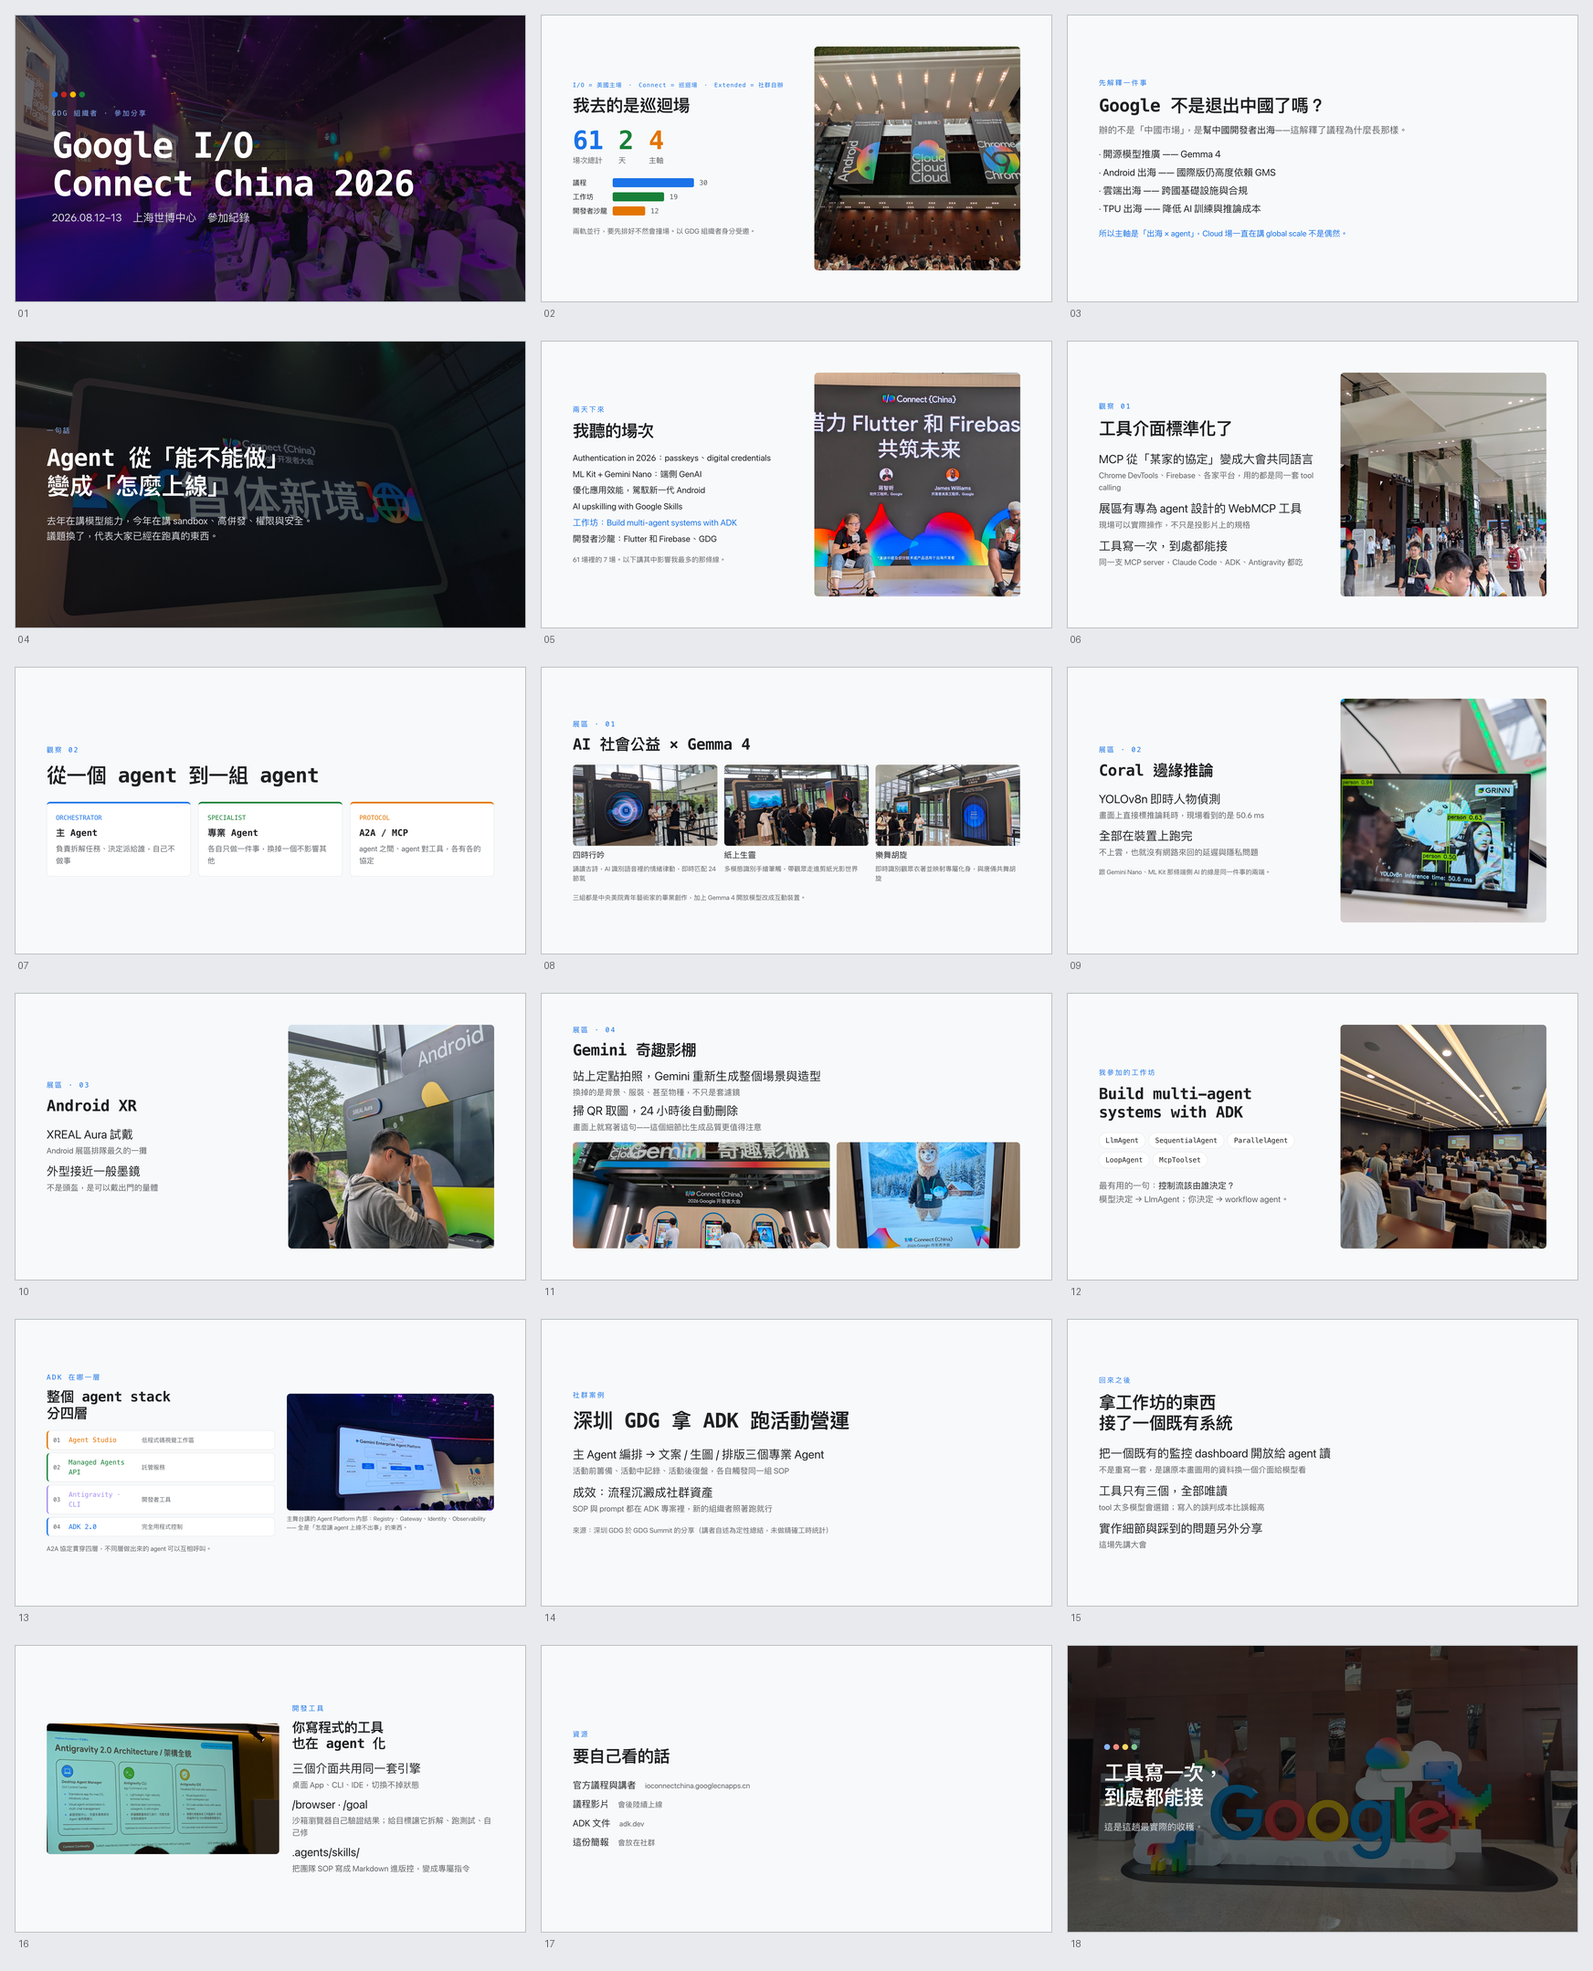
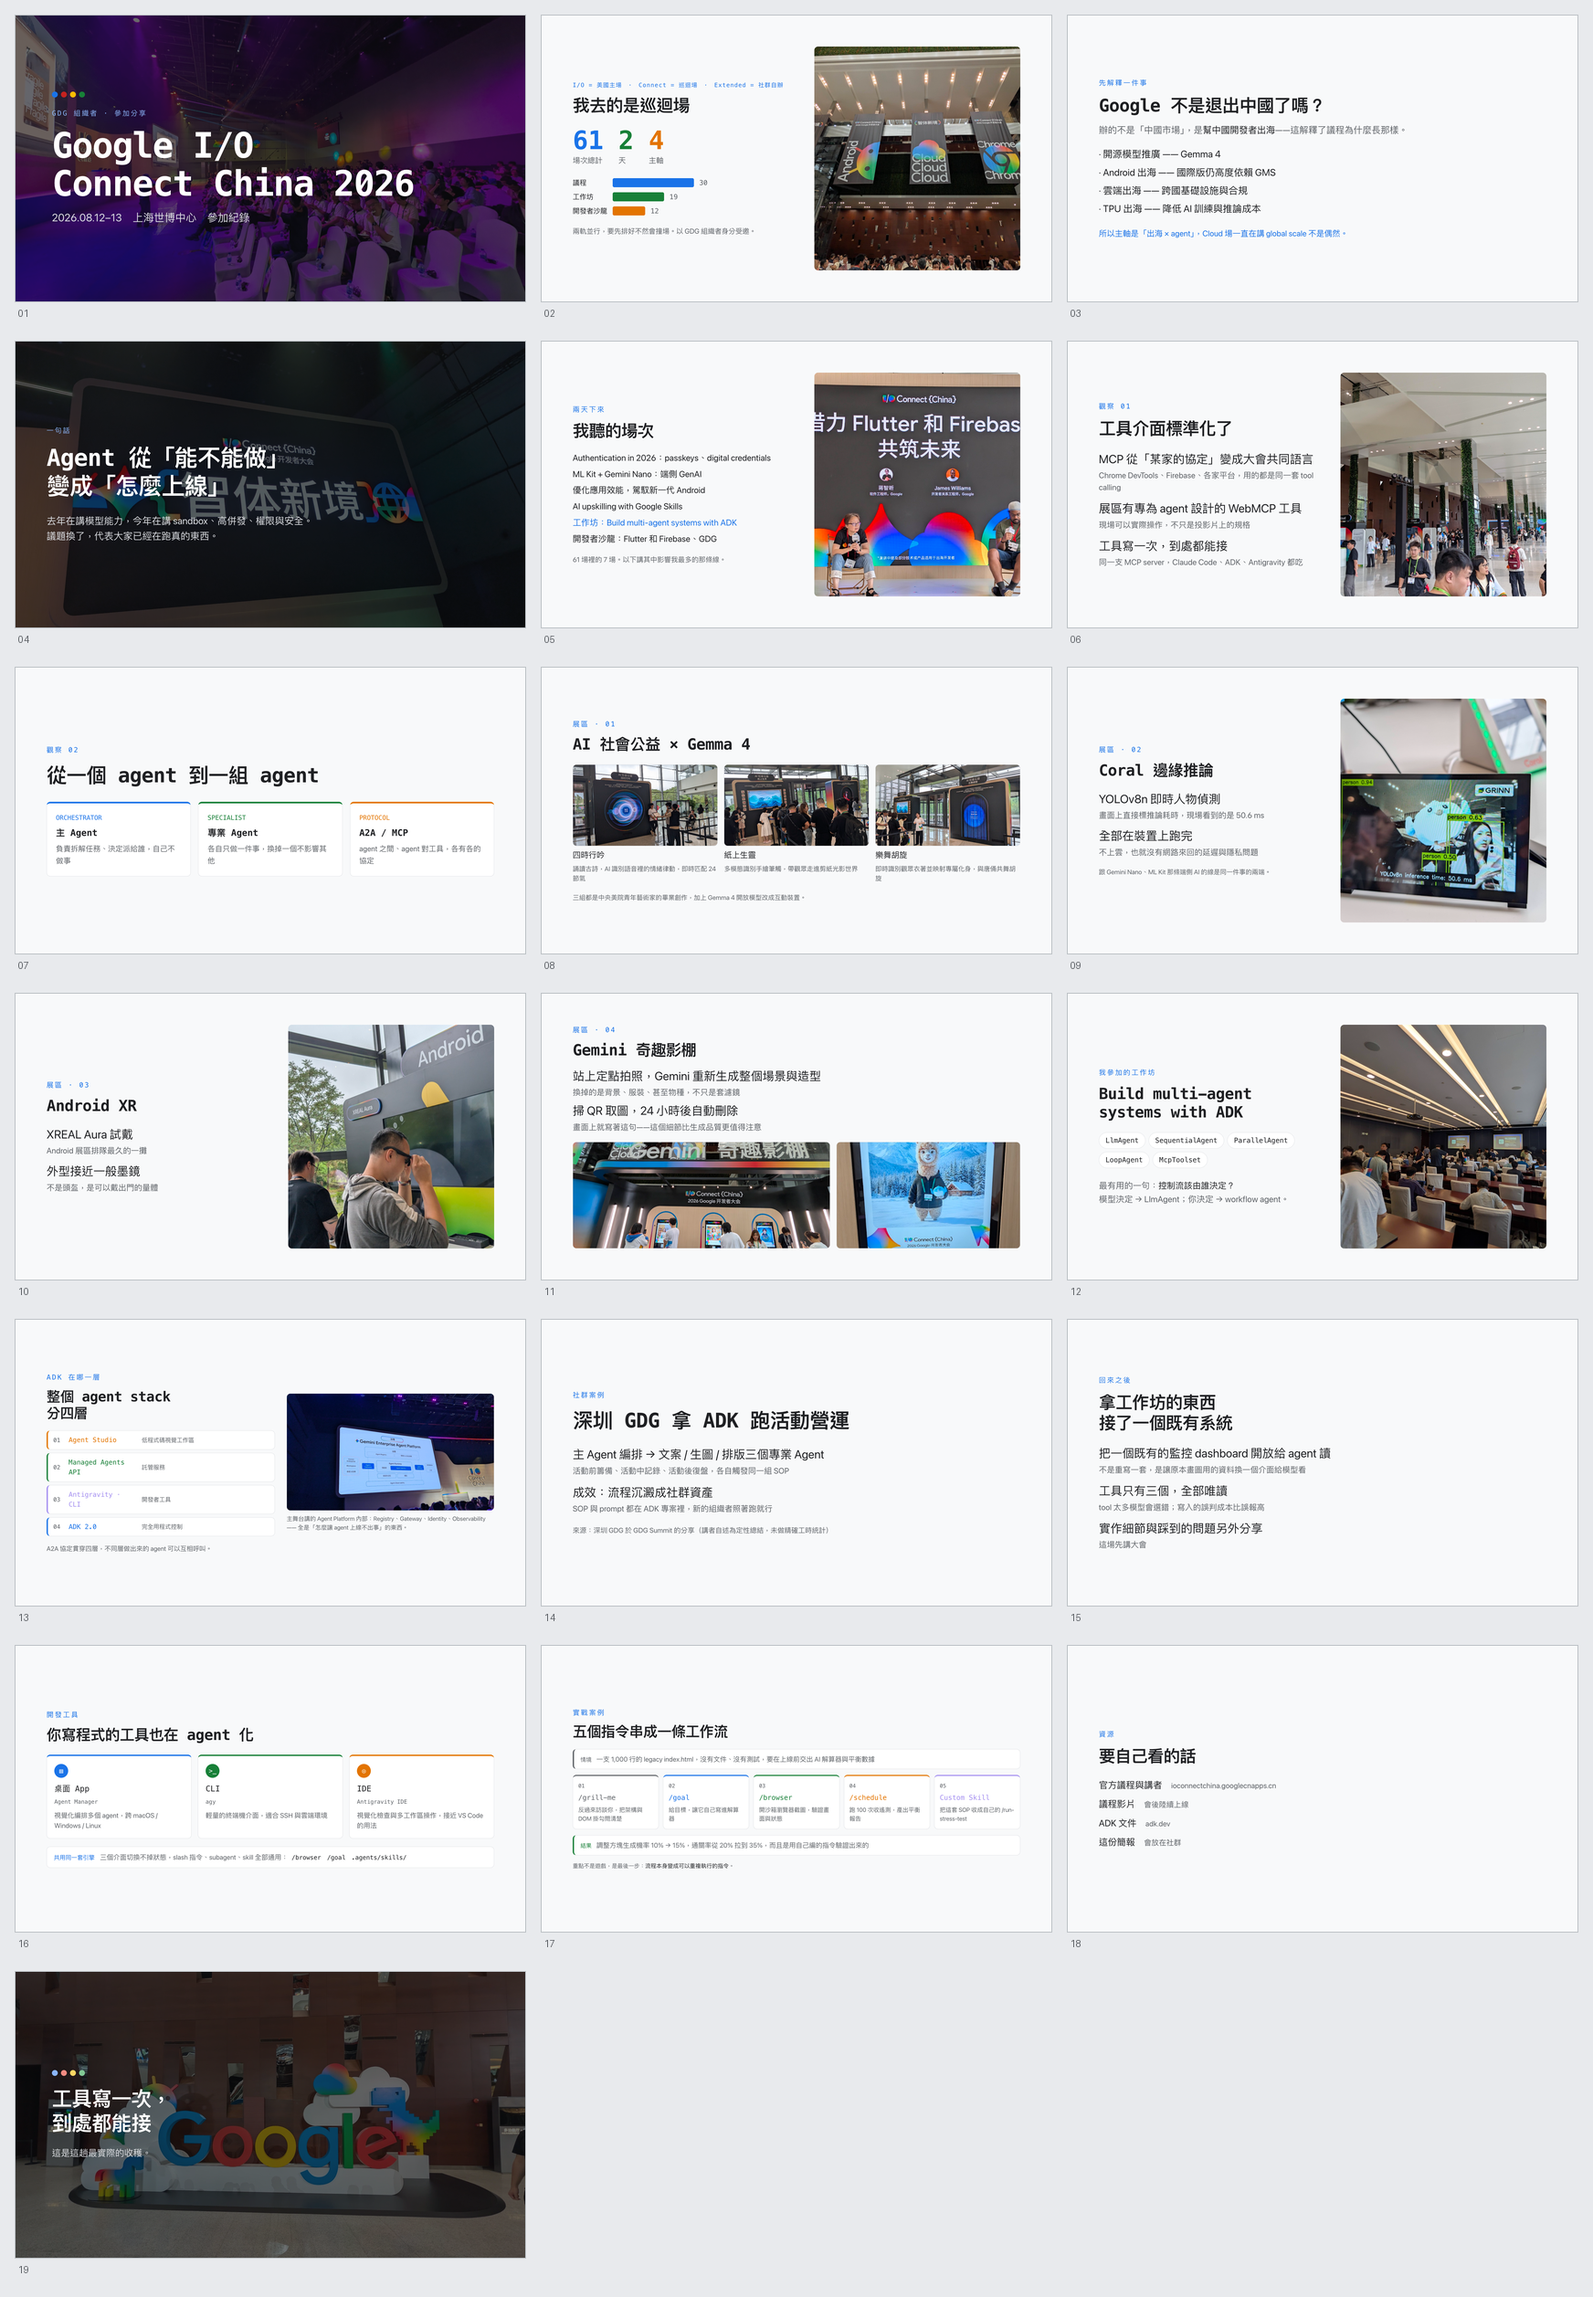
feat(slides): redraw antigravity surfaces and add slash command workflow

diff --git a/slides/io-connect-2026/index.tsx b/slides/io-connect-2026/index.tsx
@@ -7,7 +7,6 @@ import theme from './assets/theme.jpg';
 import workshop from './assets/workshop.jpg';
 import flutterSalon from './assets/flutter.jpg';
 import webmcp from './assets/webmcp.jpg';
-import antigravityArch from './assets/antigravity-arch.jpg';
 import agentPlatform from './assets/agent-platform.jpg';
 import googleSign from './assets/google-sign.jpg';
 import artPoem from './assets/art-poem.jpg';
@@ -180,6 +179,76 @@ const Layer = ({ n, name, desc, color }: { n: string; name: string; desc: string
     <div style={{ fontFamily: 'var(--osd-font-display)', fontSize: 22, color: muted, flex: '0 0 34px' }}>{n}</div>
     <div style={{ fontFamily: 'var(--osd-font-display)', fontSize: 25, color, flex: '0 0 250px' }}>{name}</div>
     <div style={{ fontSize: 22, color: muted, flex: 1 }}>{desc}</div>
+  </div>
+);
+
+/** Antigravity 的三個操作介面 */
+const Surface = ({ icon, name, sub, desc, color }: { icon: string; name: string; sub: string; desc: string; color: string }) => (
+  <div
+    style={{
+      flex: 1,
+      background: card,
+      border: `1px solid ${line}`,
+      borderTop: `5px solid ${color}`,
+      borderRadius: 'var(--osd-radius)',
+      padding: '30px 28px',
+      display: 'flex',
+      flexDirection: 'column',
+      gap: 12,
+    }}
+  >
+    <div
+      style={{
+        width: 52, height: 52, borderRadius: '50%', background: color,
+        color: '#fff', display: 'flex', alignItems: 'center', justifyContent: 'center',
+        fontFamily: 'var(--osd-font-display)', fontSize: 24,
+      }}
+    >
+      {icon}
+    </div>
+    <div style={{ fontFamily: 'var(--osd-font-display)', fontSize: 30, marginTop: 6 }}>{name}</div>
+    <div style={{ fontFamily: 'var(--osd-font-display)', fontSize: 21, color: muted }}>{sub}</div>
+    <div style={{ fontSize: 25, color: muted, lineHeight: 1.5, marginTop: 4 }}>{desc}</div>
+  </div>
+);
+
+/** 流程步驟卡:編號 + 指令 + 它做的事 */
+const Step5 = ({ n, cmd, what, color }: { n: string; cmd: string; what: string; color: string }) => (
+  <div
+    style={{
+      flex: 1,
+      background: card,
+      border: `1px solid ${line}`,
+      borderTop: `4px solid ${color}`,
+      borderRadius: 'var(--osd-radius)',
+      padding: '22px 20px',
+      display: 'flex',
+      flexDirection: 'column',
+      gap: 10,
+    }}
+  >
+    <div style={{ fontFamily: 'var(--osd-font-display)', fontSize: 20, color: muted }}>{n}</div>
+    <div style={{ fontFamily: 'var(--osd-font-display)', fontSize: 26, color }}>{cmd}</div>
+    <div style={{ fontSize: 22, color: muted, lineHeight: 1.5 }}>{what}</div>
+  </div>
+);
+
+/** 情境 / 結果的橫條 */
+const Band = ({ label, text, color }: { label: string; text: string; color: string }) => (
+  <div
+    style={{
+      background: card,
+      border: `1px solid ${line}`,
+      borderLeft: `5px solid ${color}`,
+      borderRadius: 'var(--osd-radius)',
+      padding: '18px 24px',
+      display: 'flex',
+      alignItems: 'baseline',
+      gap: 18,
+    }}
+  >
+    <span style={{ fontFamily: 'var(--osd-font-display)', fontSize: 21, color, flex: '0 0 auto' }}>{label}</span>
+    <span style={{ fontSize: 25, color: muted, lineHeight: 1.5 }}>{text}</span>
   </div>
 );
 
@@ -485,19 +554,69 @@ const Bridge: Page = () => (
 );
 
 const Tooling: Page = () => (
-  <div style={{ ...page, flexDirection: 'row', gap: 48, alignItems: 'center' }}>
-    <div style={{ flex: '0 0 52%', borderRadius: 'var(--osd-radius)', overflow: 'hidden', border: `1px solid ${line}` }}>
-      <img src={antigravityArch} alt="" style={{ width: '100%', display: 'block' }} />
+  <div style={{ ...page, justifyContent: 'center' }}>
+    <div style={eyebrow}>開發工具</div>
+    <h2 style={{ ...h2, fontSize: 56, marginTop: 22 }}>你寫程式的工具也在 agent 化</h2>
+    <div style={{ display: 'flex', gap: 24, marginTop: 40 }}>
+      <Surface icon="▤" name="桌面 App" sub="Agent Manager" desc="視覺化編排多個 agent，跨 macOS / Windows / Linux" color="#1a73e8" />
+      <Surface icon=">_" name="CLI" sub="agy" desc="輕量的終端機介面，適合 SSH 與雲端環境" color={green} />
+      <Surface icon="◎" name="IDE" sub="Antigravity IDE" desc="視覺化檢查與多工作區操作，接近 VS Code 的用法" color={yellow} />
     </div>
-    <div style={{ flex: 1 }}>
-      <div style={eyebrow}>開發工具</div>
-      <h2 style={{ ...h2, fontSize: 50, marginTop: 22 }}>你寫程式的工具<br />也在 agent 化</h2>
-      <div style={{ display: 'flex', flexDirection: 'column', gap: 20, marginTop: 32 }}>
-        <Bullet text="三個介面共用同一套引擎" sub="桌面 App、CLI、IDE，切換不掉狀態" />
-        <Bullet text="/browser · /goal" sub="沙箱瀏覽器自己驗證結果；給目標讓它拆解、跑測試、自己修" />
-        <Bullet text=".agents/skills/" sub="把團隊 SOP 寫成 Markdown 進版控，變成專屬指令" />
-      </div>
+    <div
+      style={{
+        marginTop: 30,
+        padding: '20px 26px',
+        background: card,
+        border: `1px solid ${line}`,
+        borderRadius: 'var(--osd-radius)',
+        display: 'flex',
+        alignItems: 'baseline',
+        gap: 20,
+      }}
+    >
+      <span style={{ fontFamily: 'var(--osd-font-display)', fontSize: 22, color: '#1a73e8' }}>共用同一套引擎</span>
+      <span style={{ fontSize: 25, color: muted }}>
+        三個介面切換不掉狀態，slash 指令、subagent、skill 全部通用：
+        <span style={{ color: 'var(--osd-text)', fontFamily: 'var(--osd-font-display)', fontSize: 23 }}>
+          {' '}/browser　/goal　.agents/skills/
+        </span>
+      </span>
     </div>
+  </div>
+);
+
+const Codelab: Page = () => (
+  <div style={{ ...page, justifyContent: 'center' }}>
+    <div style={eyebrow}>實戰案例</div>
+    <h2 style={{ ...h2, fontSize: 54, marginTop: 20 }}>五個指令串成一條工作流</h2>
+
+    <div style={{ marginTop: 32 }}>
+      <Band
+        label="情境"
+        text="一支 1,000 行的 legacy index.html，沒有文件、沒有測試，要在上線前交出 AI 解算器與平衡數據"
+        color={muted}
+      />
+    </div>
+
+    <div style={{ display: 'flex', gap: 16, marginTop: 22 }}>
+      <Step5 n="01" cmd="/grill-me" what="反過來訪談你，把架構與 DOM 掛勾問清楚" color="#5f6368" />
+      <Step5 n="02" cmd="/goal" what="給目標，讓它自己寫進解算器" color="#1a73e8" />
+      <Step5 n="03" cmd="/browser" what="開沙箱瀏覽器截圖，驗證畫面與狀態" color={green} />
+      <Step5 n="04" cmd="/schedule" what="跑 100 次收遙測，產出平衡報告" color={yellow} />
+      <Step5 n="05" cmd="Custom Skill" what="把這套 SOP 收成自己的 /run-stress-test" color="#a48ff0" />
+    </div>
+
+    <div style={{ marginTop: 22 }}>
+      <Band
+        label="結果"
+        text="調整方塊生成機率 10% → 15%，通關率從 20% 拉到 35%，而且是用自己編的指令驗證出來的"
+        color={green}
+      />
+    </div>
+
+    <p style={{ fontSize: 21, color: muted, marginTop: 24, marginBottom: 0 }}>
+      重點不是遊戲，是最後一步：<span style={{ color: 'var(--osd-text)' }}>流程本身變成可以重複執行的指令</span>。
+    </p>
   </div>
 );
 
@@ -564,6 +683,7 @@ export default [
   Shenzhen,
   Bridge,
   Tooling,
+  Codelab,
   Takeaway,
   End,
 ] satisfies Page[];
